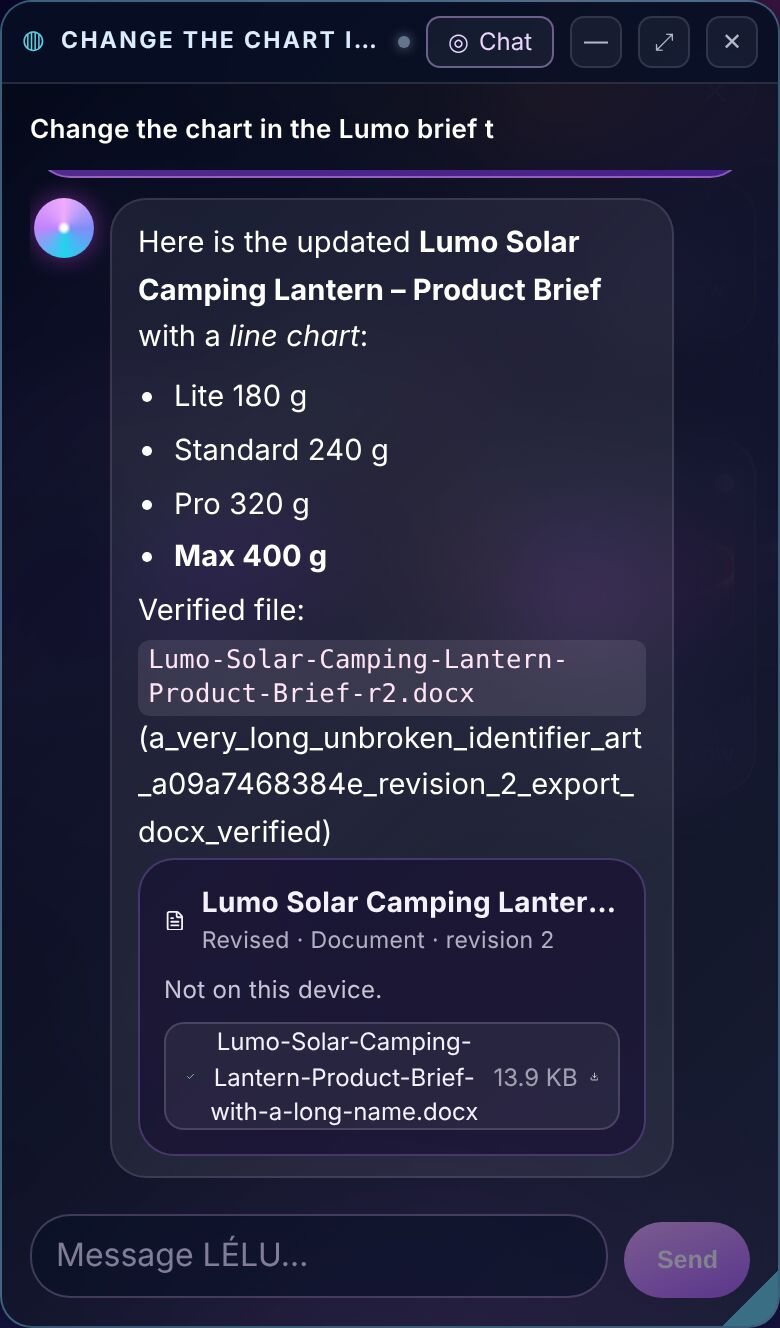
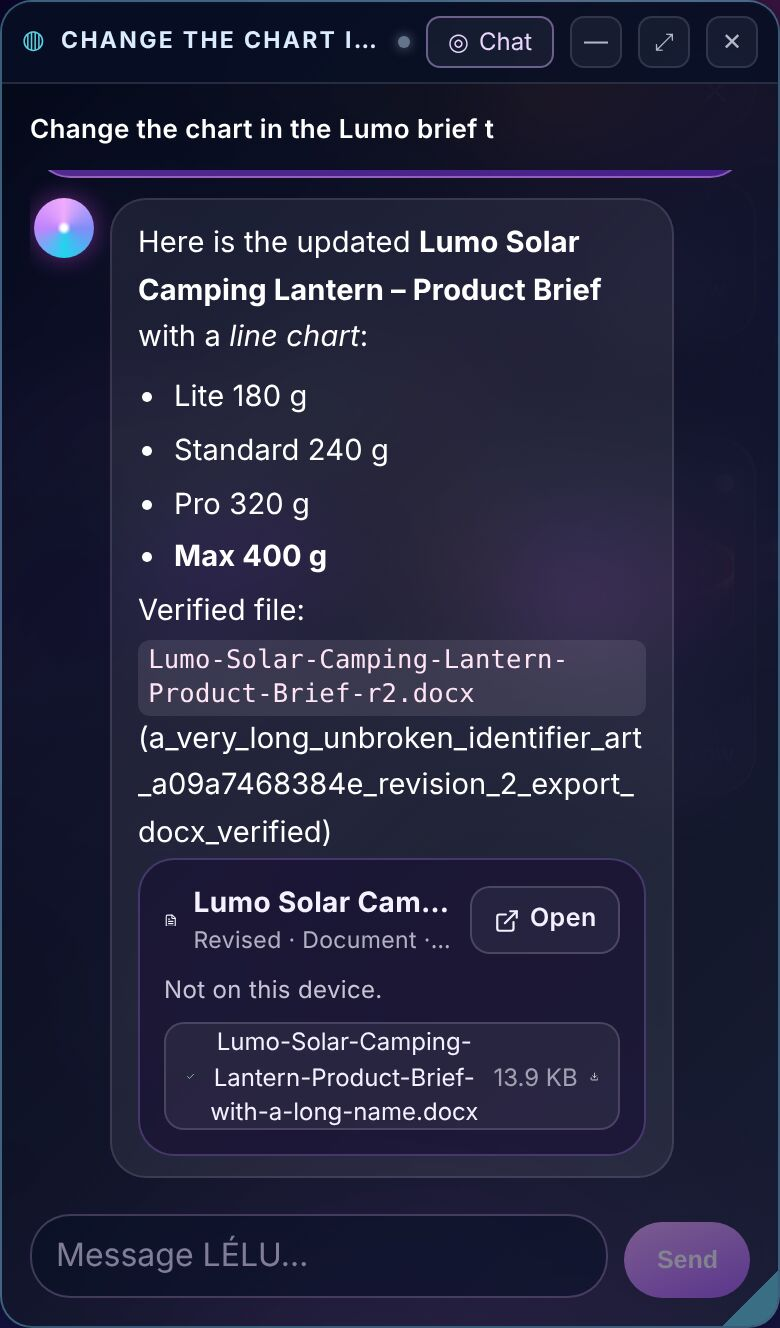
Universe cards: action buttons stay on one line, title shrinks; step-2 evidence
Live product creation 16/16 (incl. revision keeps every r1 text block). Bubble check on
iPhone 13: no raw markdown, scrollWidth = clientWidth, 0 overflowing elements, 0 px
subtitle under the Open button.

Claude-Session: https://claude.ai/code/session_017r5V6Pdk4qrXi1rGNE7myg

Changed region(s): [[0.2154, 0.6483, 0.8, 0.741]]

diff --git a/src/app/scene/genesis/chat/universe/chatUniverse.css b/src/app/scene/genesis/chat/universe/chatUniverse.css
@@ -283,3 +283,8 @@ html[data-lelu-universe="open"] [data-testid="lelu-companion"] { visibility: hid
 /* A reply reads left-aligned (the window centres its content); file sizes never wrap. */
 .lcu-msg[data-role="assistant"] .lcu-bubble { text-align: left; }
 .lcu-bubble [data-lelu-chat-artifact] span { white-space: nowrap; overflow-wrap: normal; }
+/* Buttons keep their label on one line (overflow-wrap:anywhere broke "Open" into letters). */
+.lcu-bubble .lst-btn { white-space: nowrap; overflow-wrap: normal; flex-shrink: 0; }
+/* The card title shrinks (and ellipsizes) so its subtitle never runs under the Open button. */
+.lcu-bubble .lst-chat-card header .title { flex: 1 1 auto; min-width: 0; }
+.lcu-bubble .lst-chat-card header .title em { display: block; overflow: hidden; text-overflow: ellipsis; white-space: nowrap; }
